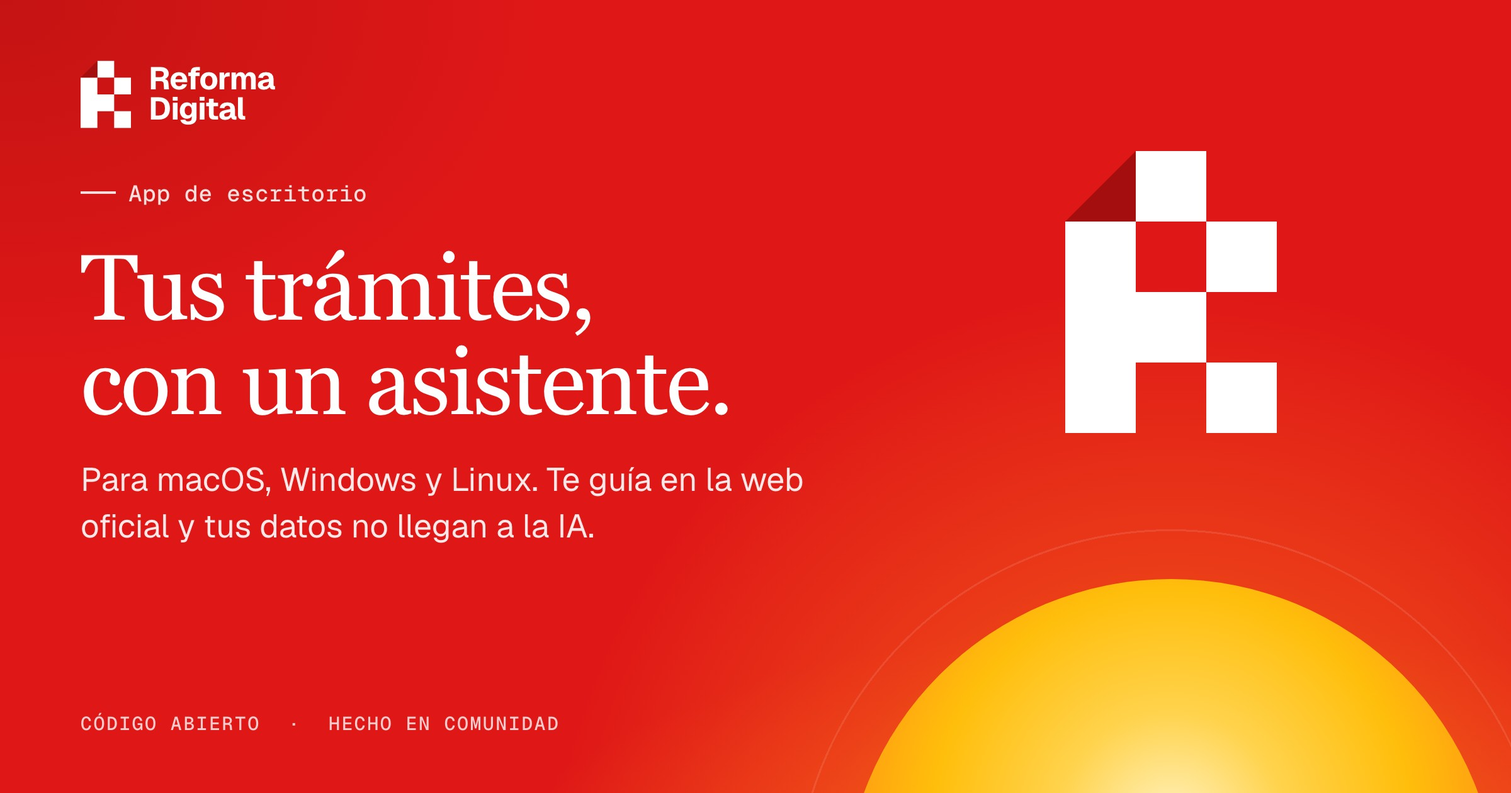
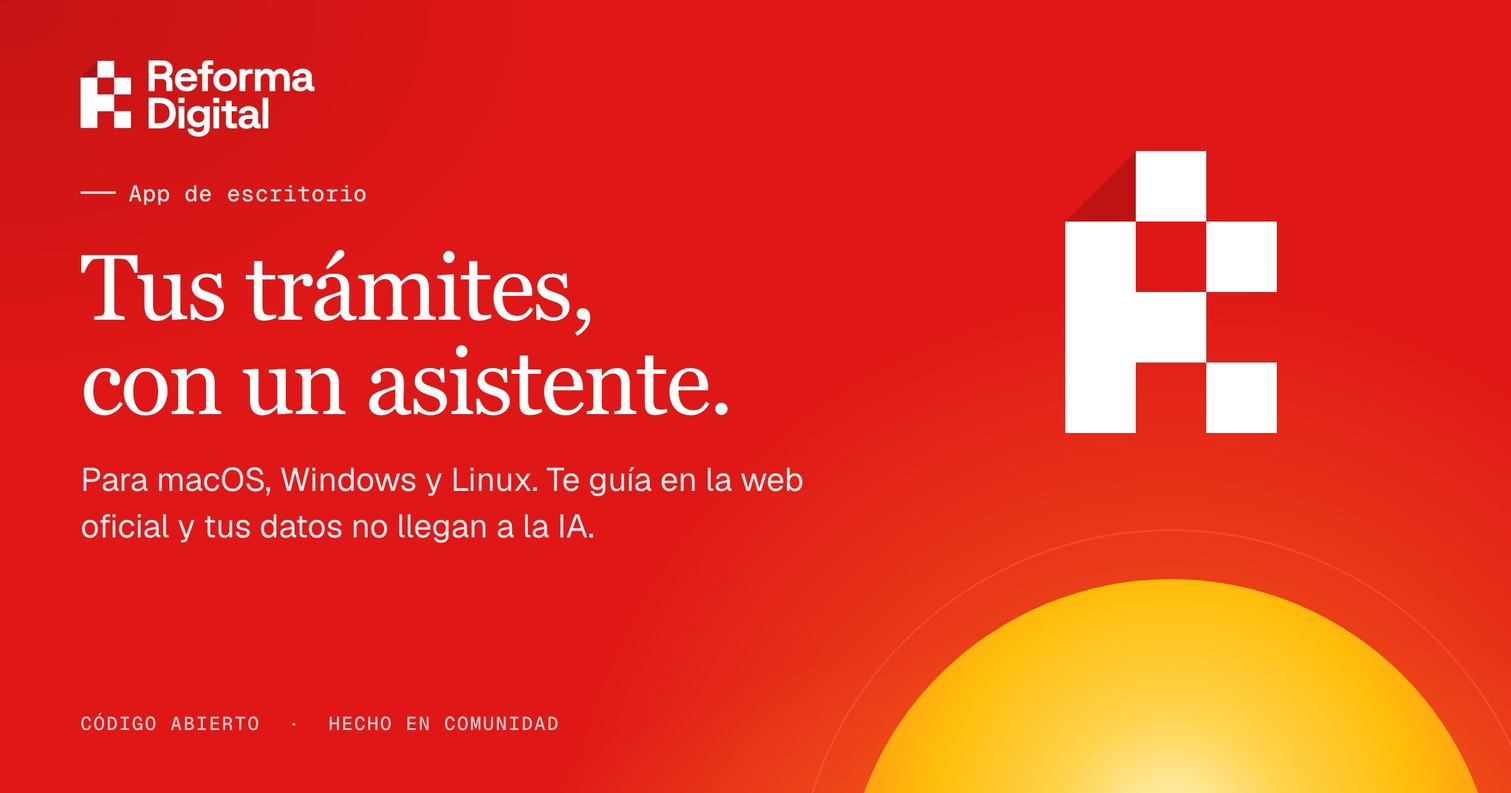
feat(design): contornea el logotipo final en Cassette y lo alinea con la R (#182)
## Change

**Logo final.** El equipo ha elegido la versión de dos líneas como logo
principal y conserva la de una línea como secundaria. La forma de la R
no cambia; su doblez sí cambia cuando la R es blanca (ver «Doblez de la
R blanca»).

**Problema**
- «Reforma Digital» se escribía con `--font-brand-logo` (Ufficio), que
no se sirve por licencia. En producción se veía en Geist.
- El tamaño del texto se calculaba con `font-size`, no con la R, así que
no seguía la cuadrícula del logo.

**Qué cambia**
- **`@reforma-digital/design/ui/logotipo`**: componente `Logotipo` con
«Reforma Digital» contorneado en Cassette SemiBold, en dos líneas o en
una. `size` es el alto de la R que lo acompaña. La caja del logo es la
de la R:
- en dos líneas, el texto va de la mayúscula de «Reforma» a la base de
«Digital», con el mismo alto que la R;
- en una, las mayúsculas miden 3 módulos y la base coincide con la de la
R;
  - la «g» sobresale por debajo (`overflow="visible"`).
- **Web (`Logo`)**: usa `Logotipo`, a un módulo de la R (`gap: 0.5em`
con `font-size: size / 2`). Conserva `.marca` y `.marca-texto`, de las
que depende el plegado del logo de la PR #181.
- **Pie**: el logo tiene nombre accesible («Reforma Digital»), porque ya
no hay texto que lo lea. Se quitan las clases de fuente duplicadas.
- **App de escritorio**: la barra lateral usa el logo de una línea (R de
18 px) en vez de la R junto a «Reforma Digital» escrito con
`--font-brand-logo`.
[…]

Changed region(s): [[0.0938, 0.0619, 0.2188, 0.1857], [0.6875, 0.2167, 0.75, 0.2786]]

diff --git a/packages/design/ui/logotipo.tsx b/packages/design/ui/logotipo.tsx
@@ -1,0 +1,32 @@
+// «Reforma Digital» contorneado en Cassette SemiBold: el logotipo no depende de ninguna fuente.
+// `size` es el alto de la R que lo acompaña. En dos líneas el texto ocupa ese alto (de la mayúscula
+// de «Reforma» a la base de «Digital»); en una, las mayúsculas miden 3/4 y la base coincide con la de
+// la R. La caja es la de la R: la «g» sobresale por debajo.
+const LINEAS = {
+  2: {
+    ancho: 468.24,
+    alto: 192,
+    d: 'M0 86.52H17.16V52.32H36.48C46.2 52.32 50.04 56.64 50.04 66.48V86.52H67.2V63.84C67.2 54 64.44 48.24 56.88 45.24C64.08 41.04 68.04 33.84 68.04 25.56C68.04 9.96 56.64 0 38.76 0H0ZM17.16 38.04V14.76H38.52C45.72 14.76 50.76 19.56 50.76 26.28C50.76 33.12 45.84 38.04 38.52 38.04ZM107.28 87.48C123.24 87.48 134.76 79.44 137.16 66.12H120.96C119.4 71.28 114 74.4 107.16 74.4C97.68 74.4 91.68 68.04 90.48 59.16H137.04C137.28 57.24 137.28 55.68 137.28 53.76C137.28 35.76 124.44 23.28 105.72 23.28C87.24 23.28 74.28 36.36 74.28 55.2C74.28 74.28 87.6 87.48 107.28 87.48ZM90.6 47.28C91.92 40.32 97.8 35.4 105.84 35.4C113.64 35.4 119.4 40.2 120.6 47.28ZM182.52 37.92V24.24H167.64V16.92C167.64 14.04 168.84 12.72 171.72 12.72H182.52V0H167.28C156.24 0 151.32 4.68 151.32 15.24V24.24H138.36V37.92H151.32V86.52H167.64V37.92ZM216.12 87.48C235.56 87.48 249.36 74.16 249.36 55.32C249.36 36.6 235.56 23.28 216.12 23.28C196.56 23.28 182.76 36.6 182.76 55.32C182.76 74.16 196.56 87.48 216.12 87.48ZM216.12 73.68C206.16 73.68 199.2 66 199.2 55.32C199.2 44.76 206.16 37.08 216.12 37.08C225.96 37.08 232.92 44.76 232.92 55.32C232.92 66 225.96 73.68 216.12 73.68ZM294.12 24.24H286.92C280.68 24.24 275.64 26.52 273.24 31.2V24.24H256.92V86.52H273.24V52.44C273.24 42.48 278.76 37.92 285.84 37.92H294.12ZM300.24 86.52H316.56V53.16C316.56 44.04 321.96 37.44 329.64 37.44C336.36 37.44 341.28 42.48 341.28 49.68V86.52H357.6V52.92C357.6 43.92 363.24 37.44 370.68 37.44C377.4 37.44 382.32 42.48 382.32 49.68V86.52H398.76V48.48C398.76 34.2 387.84 23.28 373.68 23.28C365.28 23.28 357.84 27.36 353.4 33.84C349.44 27.24 342.36 23.28 333.96 23.28C327 23.28 320.4 26.4 316.56 31.8V24.24H300.24ZM428.04 87.48C436.44 87.48 444 84.12 447.84 78.84C448.8 83.28 453.24 86.52 458.4 86.52H468.24V73.8H465.48C462.96 73.8 461.16 72.12 461.16 69.6V46.56C461.16 32.28 450.72 23.28 434.28 23.28C418.8 23.28 407.28 32.16 406.68 44.52H423.12C423.48 39.6 428.16 36 434.16 36C440.64 36 444.84 39.36 444.84 44.64C444.84 47.28 442.8 48.96 439.68 48.96H429.96C414.84 48.96 405.48 56.4 405.48 68.16C405.48 79.8 414.36 87.48 428.04 87.48ZM431.52 75.84C425.76 75.84 421.92 72.72 421.92 67.92C421.92 62.88 425.88 59.88 432.36 59.88H440.28C442.8 59.88 444.48 59.4 445.32 58.44V60.72C445.32 69.96 440.04 75.84 431.52 75.84Z M0 192H30.84C59.76 192 76.8 175.8 76.8 148.68C76.8 121.68 59.76 105.48 30.72 105.48H0ZM17.16 177.24V120.24H30.84C48.24 120.24 59.28 131.4 59.28 148.68C59.28 165.96 48.24 177.24 30.96 177.24ZM84.84 192H101.16V129.72H84.84ZM84.48 120.12H101.52V105.48H84.48ZM141.36 215.52C160.44 215.52 172.92 204.48 172.92 187.56V129.72H156.6V136.92C152.88 132 145.56 128.76 137.88 128.76C121.08 128.76 108.72 141.24 108.72 158.76C108.72 176.52 121.2 188.88 138.12 188.88C145.92 188.88 152.88 185.88 156.6 180.84V187.68C156.6 197.04 151.08 202.44 141.36 202.44C133.2 202.44 127.56 198.72 126.24 192.96H109.92C110.88 206.28 123.12 215.52 141.36 215.52ZM141.6 175.44C132 175.44 125.28 168.48 125.28 158.88C125.28 149.16 132 142.32 141.6 142.32C151.08 142.32 157.44 149.04 157.44 158.88C157.44 168.72 151.08 175.44 141.6 175.44ZM183 192H199.32V129.72H183ZM182.64 120.12H199.68V105.48H182.64ZM233.52 192H249.6V178.32H238.56C235.92 178.32 234.72 177 234.72 174.12V143.4H249.6V129.72H234.72V113.76H218.4V129.72H205.44V143.4H218.4V177.96C218.4 187.68 223.2 192 233.52 192ZM276.36 192.96C284.76 192.96 292.32 189.6 296.16 184.32C297.12 188.76 301.56 192 306.72 192H316.56V179.28H313.8C311.28 179.28 309.48 177.6 309.48 175.08V152.04C309.48 137.76 299.04 128.76 282.6 128.76C267.12 128.76 255.6 137.64 255 150H271.44C271.8 145.08 276.48 141.48 282.48 141.48C288.96 141.48 293.16 144.84 293.16 150.12C293.16 152.76 291.12 154.44 288 154.44H278.28C263.16 154.44 253.8 161.88 253.8 173.64C253.8 185.28 262.68 192.96 276.36 192.96ZM279.84 181.32C274.08 181.32 270.24 178.2 270.24 173.4C270.24 168.36 274.2 165.36 280.68 165.36H288.6C291.12 165.36 292.8 164.88 293.64 163.92V166.2C293.64 175.44 288.36 181.32 279.84 181.32ZM321.84 192H338.16V178.32V105.48H321.84V119.16V178.32Z',
+  },
+  1: {
+    ancho: 1390.14,
+    alto: 144,
+    d: 'M0 144H28.56V87.08H60.72C76.89 87.08 83.28 94.27 83.28 110.65V144H111.84V106.25C111.84 89.88 107.25 80.29 94.67 75.3C106.65 68.31 113.24 56.32 113.24 42.54C113.24 16.58 94.27 0 64.51 0H0ZM28.56 63.31V24.57H64.11C76.09 24.57 84.48 32.55 84.48 43.74C84.48 55.12 76.29 63.31 64.11 63.31ZM178.55 145.6C205.12 145.6 224.29 132.22 228.28 110.05H201.32C198.72 118.64 189.74 123.83 178.35 123.83C162.57 123.83 152.59 113.24 150.59 98.46H228.08C228.48 95.27 228.48 92.67 228.48 89.48C228.48 59.52 207.11 38.75 175.96 38.75C145.2 38.75 123.63 60.52 123.63 91.87C123.63 123.63 145.8 145.6 178.55 145.6ZM150.79 78.69C152.99 67.11 162.77 58.92 176.16 58.92C189.14 58.92 198.72 66.91 200.72 78.69ZM303.78 63.11V40.34H279.01V28.16C279.01 23.37 281.01 21.17 285.8 21.17H303.78V0H278.41C260.04 0 251.85 7.79 251.85 25.36V40.34H230.28V63.11H251.85V144H279.01V63.11ZM359.7 145.6C392.06 145.6 415.02 123.43 415.02 92.07C415.02 60.92 392.06 38.75 359.7 38.75C327.15 38.75 304.18 60.92 304.18 92.07C304.18 123.43 327.15 145.6 359.7 145.6ZM359.7 122.63C343.12 122.63 331.54 109.85 331.54 92.07C331.54 74.5 343.12 61.71 359.7 61.71C376.08 61.71 387.66 74.5 387.66 92.07C387.66 109.85 376.08 122.63 359.7 122.63ZM489.52 40.34H477.54C467.15 40.34 458.76 44.14 454.77 51.93V40.34H427.61V144H454.77V87.28C454.77 70.7 463.96 63.11 475.74 63.11H489.52ZM499.71 144H526.87V88.48C526.87 73.3 535.86 62.31 548.64 62.31C559.82 62.31 568.01 70.7 568.01 82.69V144H595.17V88.08C595.17 73.1 604.56 62.31 616.94 62.31C628.13 62.31 636.32 70.7 636.32 82.69V144H663.68V80.69C663.68 56.92 645.5 38.75 621.94 38.75C607.96 38.75 595.57 45.54 588.18 56.32C581.59 45.34 569.81 38.75 555.83 38.75C544.24 38.75 533.26 43.94 526.87 52.93V40.34H499.71ZM712.41 145.6C726.39 145.6 738.97 140.01 745.36 131.22C746.96 138.61 754.35 144 762.94 144H779.32V122.83H774.72C770.53 122.83 767.53 120.03 767.53 115.84V77.49C767.53 53.73 750.16 38.75 722.8 38.75C697.03 38.75 677.86 53.53 676.86 74.1H704.22C704.82 65.91 712.61 59.92 722.6 59.92C733.38 59.92 740.37 65.51 740.37 74.3C740.37 78.69 736.98 81.49 731.78 81.49H715.61C690.44 81.49 674.86 93.87 674.86 113.44C674.86 132.82 689.64 145.6 712.41 145.6ZM718.2 126.22C708.62 126.22 702.22 121.03 702.22 113.04C702.22 104.65 708.82 99.66 719.6 99.66H732.78C736.98 99.66 739.77 98.86 741.17 97.26V101.06C741.17 116.44 732.38 126.22 718.2 126.22Z M827.32 144H878.65C926.78 144 955.14 117.04 955.14 71.9C955.14 26.96 926.78 0 878.45 0H827.32ZM855.88 119.43V24.57H878.65C907.61 24.57 925.98 43.14 925.98 71.9C925.98 100.66 907.61 119.43 878.85 119.43ZM968.52 144H995.68V40.34H968.52ZM967.92 24.37H996.28V0H967.92ZM1062.59 183.15C1094.35 183.15 1115.12 164.77 1115.12 136.61V40.34H1087.96V52.33C1081.76 44.14 1069.58 38.75 1056.8 38.75C1028.84 38.75 1008.27 59.52 1008.27 88.68C1008.27 118.24 1029.04 138.81 1057.2 138.81C1070.18 138.81 1081.76 133.81 1087.96 125.43V136.81C1087.96 152.39 1078.77 161.38 1062.59 161.38C1049.01 161.38 1039.62 155.18 1037.43 145.6H1010.26C1011.86 167.77 1032.23 183.15 1062.59 183.15ZM1062.99 116.44C1047.01 116.44 1035.83 104.85 1035.83 88.88C1035.83 72.7 1047.01 61.31 1062.99 61.31C1078.77 61.31 1089.35 72.5 1089.35 88.88C1089.35 105.25 1078.77 116.44 1062.99 116.44ZM1131.89 144H1159.06V40.34H1131.89ZM1131.3 24.37H1159.66V0H1131.3ZM1215.98 144H1242.74V121.23H1224.37C1219.97 121.23 1217.98 119.03 1217.98 114.24V63.11H1242.74V40.34H1217.98V13.78H1190.81V40.34H1169.24V63.11H1190.81V120.63C1190.81 136.81 1198.8 144 1215.98 144ZM1287.28 145.6C1301.26 145.6 1313.84 140.01 1320.23 131.22C1321.83 138.61 1329.22 144 1337.81 144H1354.19V122.83H1349.59C1345.4 122.83 1342.4 120.03 1342.4 115.84V77.49C1342.4 53.73 1325.03 38.75 1297.66 38.75C1271.9 38.75 1252.73 53.53 1251.73 74.1H1279.09C1279.69 65.91 1287.48 59.92 1297.46 59.92C1308.25 59.92 1315.24 65.51 1315.24 74.3C1315.24 78.69 1311.84 81.49 1306.65 81.49H1290.47C1265.31 81.49 1249.73 93.87 1249.73 113.44C1249.73 132.82 1264.51 145.6 1287.28 145.6ZM1293.07 126.22C1283.48 126.22 1277.09 121.03 1277.09 113.04C1277.09 104.65 1283.68 99.66 1294.47 99.66H1307.65C1311.84 99.66 1314.64 98.86 1316.04 97.26V101.06C1316.04 116.44 1307.25 126.22 1293.07 126.22ZM1362.97 144H1390.14V121.23V0H1362.97V22.77V121.23Z',
+  },
+};
+
+export function Logotipo({ size, lineas = 2 }: { size: number; lineas?: 1 | 2 }) {
+  const { ancho, alto, d } = LINEAS[lineas];
+  const h = (size * alto) / 192;
+  return (
+    <svg
+      width={(h * ancho) / alto}
+      height={h}
+      viewBox={`0 0 ${ancho} ${alto}`}
+      overflow="visible"
+      aria-hidden="true"
+    >
+      <path fill="currentColor" d={d} />
+    </svg>
+  );
+}

diff --git a/apps/web/og/template.html b/apps/web/og/template.html
@@ -10,7 +10,8 @@
     <style>
       :root {
         --rojo: #df1717;
-        --doblez: #a50e0e;
+        /* R blanca sobre color: el doblez es una sombra translúcida (negro al 15 %). */
+        --doblez: rgb(0 0 0 / 0.15);
         --naranja: #ff7a1a;
         --amarillo: #ffbe0b;
         --tinta: #222222;
@@ -104,14 +105,11 @@
         align-items: center;
         justify-content: space-between;
       }
+      /* R de 54 px y «Reforma Digital» contorneado del mismo alto, a un módulo (54 / 4). */
       .marca {
         display: flex;
         align-items: center;
-        gap: 14px;
-        font-size: 25px;
-        font-weight: 700;
-        line-height: 0.95;
-        letter-spacing: -0.02em;
+        gap: 13.5px;
       }
       .dato {
         font-family: var(--font-mono);
@@ -338,7 +336,18 @@
             <rect x="96" y="48" width="48" height="48" fill="currentColor" />
             <rect x="96" y="144" width="48" height="48" fill="currentColor" />
           </svg>
-          <span>Reforma<br />Digital</span>
+          <svg
+            width="131.69"
+            height="54"
+            viewBox="0 0 468.24 192"
+            overflow="visible"
+            aria-label="Reforma Digital"
+          >
+            <path
+              fill="currentColor"
+              d="M0 86.52H17.16V52.32H36.48C46.2 52.32 50.04 56.64 50.04 66.48V86.52H67.2V63.84C67.2 54 64.44 48.24 56.88 45.24C64.08 41.04 68.04 33.84 68.04 25.56C68.04 9.96 56.64 0 38.76 0H0ZM17.16 38.04V14.76H38.52C45.72 14.76 50.76 19.56 50.76 26.28C50.76 33.12 45.84 38.04 38.52 38.04ZM107.28 87.48C123.24 87.48 134.76 79.44 137.16 66.12H120.96C119.4 71.28 114 74.4 107.16 74.4C97.68 74.4 91.68 68.04 90.48 59.16H137.04C137.28 57.24 137.28 55.68 137.28 53.76C137.28 35.76 124.44 23.28 105.72 23.28C87.24 23.28 74.28 36.36 74.28 55.2C74.28 74.28 87.6 87.48 107.28 87.48ZM90.6 47.28C91.92 40.32 97.8 35.4 105.84 35.4C113.64 35.4 119.4 40.2 120.6 47.28ZM182.52 37.92V24.24H167.64V16.92C167.64 14.04 168.84 12.72 171.72 12.72H182.52V0H167.28C156.24 0 151.32 4.68 151.32 15.24V24.24H138.36V37.92H151.32V86.52H167.64V37.92ZM216.12 87.48C235.56 87.48 249.36 74.16 249.36 55.32C249.36 36.6 235.56 23.28 216.12 23.28C196.56 23.28 182.76 36.6 182.76 55.32C182.76 74.16 196.56 87.48 216.12 87.48ZM216.12 73.68C206.16 73.68 199.2 66 199.2 55.32C199.2 44.76 206.16 37.08 216.12 37.08C225.96 37.08 232.92 44.76 232.92 55.32C232.92 66 225.96 73.68 216.12 73.68ZM294.12 24.24H286.92C280.68 24.24 275.64 26.52 273.24 31.2V24.24H256.92V86.52H273.24V52.44C273.24 42.48 278.76 37.92 285.84 37.92H294.12ZM300.24 86.52H316.56V53.16C316.56 44.04 321.96 37.44 329.64 37.44C336.36 37.44 341.28 42.48 341.28 49.68V86.52H357.6V52.92C357.6 43.92 363.24 37.44 370.68 37.44C377.4 37.44 382.32 42.48 382.32 49.68V86.52H398.76V48.48C398.76 34.2 387.84 23.28 373.68 23.28C365.28 23.28 357.84 27.36 353.4 33.84C349.44 27.24 342.36 23.28 333.96 23.28C327 23.28 320.4 26.4 316.56 31.8V24.24H300.24ZM428.04 87.48C436.44 87.48 444 84.12 447.84 78.84C448.8 83.28 453.24 86.52 458.4 86.52H468.24V73.8H465.48C462.96 73.8 461.16 72.12 461.16 69.6V46.56C461.16 32.28 450.72 23.28 434.28 23.28C418.8 23.28 407.28 32.16 406.68 44.52H423.12C423.48 39.6 428.16 36 434.16 36C440.64 36 444.84 39.36 444.84 44.64C444.84 47.28 442.8 48.96 439.68 48.96H429.96C414.84 48.96 405.48 56.4 405.48 68.16C405.48 79.8 414.36 87.48 428.04 87.48ZM431.52 75.84C425.76 75.84 421.92 72.72 421.92 67.92C421.92 62.88 425.88 59.88 432.36 59.88H440.28C442.8 59.88 444.48 59.4 445.32 58.44V60.72C445.32 69.96 440.04 75.84 431.52 75.84Z M0 192H30.84C59.76 192 76.8 175.8 76.8 148.68C76.8 121.68 59.76 105.48 30.72 105.48H0ZM17.16 177.24V120.24H30.84C48.24 120.24 59.28 131.4 59.28 148.68C59.28 165.96 48.24 177.24 30.96 177.24ZM84.84 192H101.16V129.72H84.84ZM84.48 120.12H101.52V105.48H84.48ZM141.36 215.52C160.44 215.52 172.92 204.48 172.92 187.56V129.72H156.6V136.92C152.88 132 145.56 128.76 137.88 128.76C121.08 128.76 108.72 141.24 108.72 158.76C108.72 176.52 121.2 188.88 138.12 188.88C145.92 188.88 152.88 185.88 156.6 180.84V187.68C156.6 197.04 151.08 202.44 141.36 202.44C133.2 202.44 127.56 198.72 126.24 192.96H109.92C110.88 206.28 123.12 215.52 141.36 215.52ZM141.6 175.44C132 175.44 125.28 168.48 125.28 158.88C125.28 149.16 132 142.32 141.6 142.32C151.08 142.32 157.44 149.04 157.44 158.88C157.44 168.72 151.08 175.44 141.6 175.44ZM183 192H199.32V129.72H183ZM182.64 120.12H199.68V105.48H182.64ZM233.52 192H249.6V178.32H238.56C235.92 178.32 234.72 177 234.72 174.12V143.4H249.6V129.72H234.72V113.76H218.4V129.72H205.44V143.4H218.4V177.96C218.4 187.68 223.2 192 233.52 192ZM276.36 192.96C284.76 192.96 292.32 189.6 296.16 184.32C297.12 188.76 301.56 192 306.72 192H316.56V179.28H313.8C311.28 179.28 309.48 177.6 309.48 175.08V152.04C309.48 137.76 299.04 128.76 282.6 128.76C267.12 128.76 255.6 137.64 255 150H271.44C271.8 145.08 276.48 141.48 282.48 141.48C288.96 141.48 293.16 144.84 293.16 150.12C293.16 152.76 291.12 154.44 288 154.44H278.28C263.16 154.44 253.8 161.88 253.8 173.64C253.8 185.28 262.68 192.96 276.36 192.96ZM279.84 181.32C274.08 181.32 270.24 178.2 270.24 173.4C270.24 168.36 274.2 165.36 280.68 165.36H288.6C291.12 165.36 292.8 164.88 293.64 163.92V166.2C293.64 175.44 288.36 181.32 279.84 181.32ZM321.84 192H338.16V178.32V105.48H321.84V119.16V178.32Z"
+            />
+          </svg>
         </span>
         <span class="escena codigo">
           <svg width="20" height="20" viewBox="0 0 24 24" fill="currentColor" aria-hidden="true">

diff --git a/apps/web/components/brand/logo.tsx b/apps/web/components/brand/logo.tsx
@@ -1,3 +1,5 @@
+import { Logotipo } from '@reforma-digital/design/ui/logotipo';
+
 // Logo: R con la esquina doblada. El cuerpo toma el color del texto; el doblez va en --doblez.
 export function LogoMark({ size = 28 }: { size?: number }) {
   return (
@@ -10,21 +12,14 @@ export function LogoMark({ size = 28 }: { size?: number }) {
   );
 }
 
-// Logo completo: la R y «Reforma / Digital» en dos líneas, en --font-logo. `size` es el alto
-// de la R; el texto ocupa ese mismo alto. Toma el color del texto.
+// Logo completo: la R y «Reforma / Digital» en dos líneas, separados por un módulo (1/4 de la R).
+// `size` es el alto de la R. El tamaño de letra solo fija las medidas en em de `.marca`.
 export function Logo({ size = 28 }: { size?: number }) {
   return (
-    <span
-      className={
-        'marca inline-flex items-center [gap:0.5em] [font-family:var(--font-brand-logo)] font-bold [line-height:0.92] [letter-spacing:-0.01em]'
-      }
-      style={{ fontSize: Math.round(size * 0.5) }}
-    >
+    <span className={'marca inline-flex items-center [gap:0.5em]'} style={{ fontSize: size / 2 }}>
       <LogoMark size={size} />
-      <span className={'marca-texto block'}>
-        Reforma
-        <br />
-        Digital
+      <span className={'marca-texto flex'}>
+        <Logotipo size={size} />
       </span>
     </span>
   );

diff --git a/apps/web/components/brand/footer.tsx b/apps/web/components/brand/footer.tsx
@@ -62,11 +62,7 @@ export function Footer() {
             'pie-legal grid [grid-template-columns:1fr_auto] items-center [gap:8px_32px] pt-6 [border-top:1px_solid_rgba(34,_34,_34,_0.18)] [font-size:15px] [&_ul]:flex [&_ul]:flex-wrap [&_ul]:[justify-content:flex-end] [&_ul]:[gap:0_4px] [&_ul]:[margin:0_calc(-1_*_8px)] [&_ul]:p-0 [&_ul]:list-none [&_a]:inline-flex [&_a]:items-center [&_a]:min-h-11 [&_a]:px-2 [&_a]:[border-radius:12px] [&_a]:[color:var(--foreground)] [&_a]:[text-decoration-line:underline] [&_a]:[text-decoration-color:rgba(34,_34,_34,_0.35)] [&_a]:[text-decoration-thickness:from-font] [&_a]:[text-underline-offset:0.25em] [@media(hover:_hover)_and_(pointer:_fine)]:[&_a:hover]:[text-decoration-color:currentColor] [@media(max-width:_720px)]:[grid-template-columns:minmax(0,_1fr)] [@media(max-width:_720px)]:[&_ul]:justify-start'
           }
         >
-          <span
-            className={
-              'pie-marca inline-flex items-center gap-3 [font-size:19px] marca inline-flex items-center [gap:0.5em] [font-family:var(--font-brand-logo)] font-bold [line-height:0.92] [letter-spacing:-0.01em]'
-            }
-          >
+          <span role="img" aria-label="Reforma Digital" className={'pie-marca inline-flex'}>
             <Logo />
           </span>
           <nav aria-label="Secciones">

diff --git a/apps/desktop/src/renderer/app.tsx b/apps/desktop/src/renderer/app.tsx
@@ -1,6 +1,7 @@
 import { useEffect, useState } from 'react';
 import { Button } from '@reforma-digital/design/ui/button';
 import { cn } from '@reforma-digital/design/lib/utils';
+import { Logotipo } from '@reforma-digital/design/ui/logotipo';
 import { Ajustes } from './ajustes';
 import { Bienvenida } from './bienvenida';
 import { MisDatos } from './datos';
@@ -159,9 +160,9 @@ function Barra({ vista, ir }: { vista: Vista; ir: (v: Vista) => void }) {
         </ul>
       </div>
       <div className="flex h-14 shrink-0 items-center gap-2.5 border-t border-border px-4">
-        <Marca size={18} />
-        <span className="font-[family-name:var(--font-brand-logo)] text-[15px]">
-          Reforma Digital
+        <span role="img" aria-label="Reforma Digital" className="flex items-end gap-[4.5px]">
+          <Marca size={18} />
+          <Logotipo size={18} lineas={1} />
         </span>
         <Button
           variant="ghost"

diff --git a/packages/design/styles/theme.css b/packages/design/styles/theme.css
@@ -100,7 +100,6 @@
     0 0 0 1px rgb(0 0 0 / 0.08), 0 4px 8px rgb(77 25 6 / 0.08), 0 16px 40px rgb(77 25 6 / 0.12);
   --radius: 0.625rem;
   --font-brand-text: var(--font-geist, 'Helvetica Neue', Helvetica, Arial, sans-serif);
-  --font-brand-logo: 'Ufficio', 'Ufficio Display', var(--font-brand-text);
   --font-brand-heading: 'FFF Tool Serif Text', Georgia, serif;
   --font-brand-mono: var(--font-geist-mono, ui-monospace, monospace);
 }

diff --git a/DESIGN.md b/DESIGN.md
@@ -186,12 +186,12 @@ Las primitivas viven en `packages/design/ui`, los bloques del chat en `packages/
 
 ### 8.1 Tipografía y retícula
 
-- Las familias son las del sistema visual de Paper. Titulares y cifras grandes en `--font-brand-heading` (FFF Tool Serif Text Book, alternativa Georgia); la serif nunca va en botones, menús ni texto corrido. Todo lo demás (cuerpo, entradillas `.t-texto-l`, interfaz, botones, menús y chat) en `--font-texto` (Geist 400 y 500). Datos, números y etiquetas en `--font-mono` (Geist Mono 400 y 500). Solo el logotipo usa `--font-brand-logo` (Ufficio, alternativa Geist). Geist y Geist Mono son OFL; Next las empaqueta y las sirve desde la propia web.
-- FFF Tool Serif Text ([Fonts From Folch](https://www.fontsfromfolch.com/)) y Ufficio ([Giulia Boggio](https://www.giuliaboggio.xyz/fonts/ufficio-sans), [EULA](https://www.giuliaboggio.xyz/Eula.pdf)) son de pago y hoy no se sirven. El repositorio no incluye sus archivos ni los declara, así que no hay peticiones fallidas y se ven las alternativas. Las dos exigen una licencia web por dominio, con los archivos en el servidor propio, y prohíben distribuirlos; la EULA de Ufficio nombra GitHub, pide una licencia aparte para logotipos y consentimiento escrito para usos políticos. Para activarlas:
-  1. Comprar las licencias web para el dominio y, para Ufficio, la de logotipo.
+- Las familias son las del sistema visual de Paper. Titulares y cifras grandes en `--font-brand-heading` (FFF Tool Serif Text Book, alternativa Georgia); la serif nunca va en botones, menús ni texto corrido. Todo lo demás (cuerpo, entradillas `.t-texto-l`, interfaz, botones, menús y chat) en `--font-texto` (Geist 400 y 500). Datos, números y etiquetas en `--font-mono` (Geist Mono 400 y 500). El logotipo no usa ninguna fuente: «Reforma Digital» va contorneado en Cassette SemiBold (`Logotipo`, de `@reforma-digital/design/ui/logotipo`). Geist y Geist Mono son OFL; Next las empaqueta y las sirve desde la propia web.
+- FFF Tool Serif Text ([Fonts From Folch](https://www.fontsfromfolch.com/)) es de pago y hoy no se sirve. El repositorio no incluye sus archivos ni los declara, así que no hay peticiones fallidas y se ve la alternativa. Exige una licencia web por dominio, con los archivos en el servidor propio, y prohíbe distribuirlos. Para activarla:
+  1. Comprar la licencia web para el dominio.
   2. Copiar los WOFF2 de la licencia web en `apps/web/components/brand/fuentes/`, que git ignora. El despliegue debe aportarlos desde un almacenamiento privado: `next/font/local` detiene la compilación si faltan.
-  3. En `fuentes.ts`, cargarlos con `next/font/local`: la serif con `weight: '400'`, `adjustFontFallback: 'Times New Roman'` y `variable: '--font-tool-serif'`; Ufficio solo en el peso del logotipo, con `preload: false` y `variable: '--font-ufficio'`. Añadir ambas clases a `fuentesSol`.
-  4. En `packages/design/styles/theme.css`, poner `var(--font-tool-serif)` al principio de `--font-brand-heading` y `var(--font-ufficio)` al principio de `--font-brand-logo`.
+  3. En `fuentes.ts`, cargarlos con `next/font/local`: con `weight: '400'`, `adjustFontFallback: 'Times New Roman'` y `variable: '--font-tool-serif'`. Añadir la clase a `fuentesSol`.
+  4. En `packages/design/styles/theme.css`, poner `var(--font-tool-serif)` al principio de `--font-brand-heading`.
 - Portada: titular centrado de 36–72 px; páginas informativas, de 36–60 px. Titulares de sección de 32–52 px, tarjetas de 24–30 px. Texto de lectura desde 16 px; ayudas y metadatos desde 14 px. Solo las etiquetas cortas en mayúsculas pueden medir 12 px.
 - Retícula común de 1200 px, con márgenes laterales de 20–24 px. Los artículos informativos limitan la lectura a 760 px y los párrafos a unas 65 letras de ancho. Las rejillas de colaboradores se separan con bordes compartidos, sin huecos ni sombras por celda. El equipo conserva cinco tarjetas por fila en escritorio.
 - La cabecera es la misma en todas las páginas y mide 80 px, sin bordes: logotipo, enlaces `secondary` y una acción `outline` («Participar»). En la portada queda sobre el hero y permanece visible con `sticky`, fondo translúcido y blur; en las páginas interiores, sobre blanco. Los destinos de sección y el escenario de proyectos reservan sus 80 px. Hasta 640 px, la navegación pasa a un `<dialog>` modal a pantalla completa (`mobile-menu.tsx`) que se abre con un círculo blanco con «+» y se despliega hacia abajo. Es amarilla para no confundirse con el rojo de la web: filas separadas por línea fina, sin números, y «Participar» en `primary` al pie. Objetivos de al menos 44 px.
@@ -204,7 +204,7 @@ Las primitivas viven en `packages/design/ui`, los bloques del chat en `packages/
 - Los botones nunca se subrayan; el subrayado queda para los enlaces de texto. Punto abierto: en la extensión, `LinkButton` (§3) es un `<button>` subrayado; Sol no lo cubre y queda sin decidir si se alinea.
 - Los campos (`.campo`) miden al menos 44 px, con radio 12, borde `--tinta-3` (`--linea` no llega a 3:1) y texto de 16 px.
 - Radios de 12, 16, 20 y 28 px. El hero tiene 28 px y un margen exterior de 8 px. Solo las superficies flotantes llevan `--sombra-suave` o `--sombra-flota`.
-- La marca se pinta con `Logo` y la R de esquina doblada. Los chevrons son pixelados; los demás iconos son Nucleo UI Essential outline 18, a través de `Icon`. Nucleo es la única familia: ni Feather ni Lucide, tampoco en páginas nuevas.
+- La marca se pinta con `Logo`: la R de esquina doblada (3 × 4 módulos) y, a un módulo, «Reforma Digital» en dos líneas, de la mayúscula de «Reforma» a la base de «Digital» con el mismo alto que la R. La versión de una línea (mayúsculas de 3 módulos, base en la de la R) es para espacios anchos y bajos. La caja del logo es la de la R: la «g» sobresale por debajo. Con la R roja, el doblez va en `--brand-dark`; con la R blanca, es translúcido al 15 % para adaptarse al fondo: negro sobre color (rojo, degradados, fotos) y blanco sobre negro. Los contornos de Cassette necesitan licencia de logotipo de Displaay antes de publicarse. Los chevrons son pixelados; los demás iconos son Nucleo UI Essential outline 18, a través de `Icon`. Nucleo es la única familia: ni Feather ni Lucide, tampoco en páginas nuevas.
 
 ### 8.3 Chat y privacidad
 
